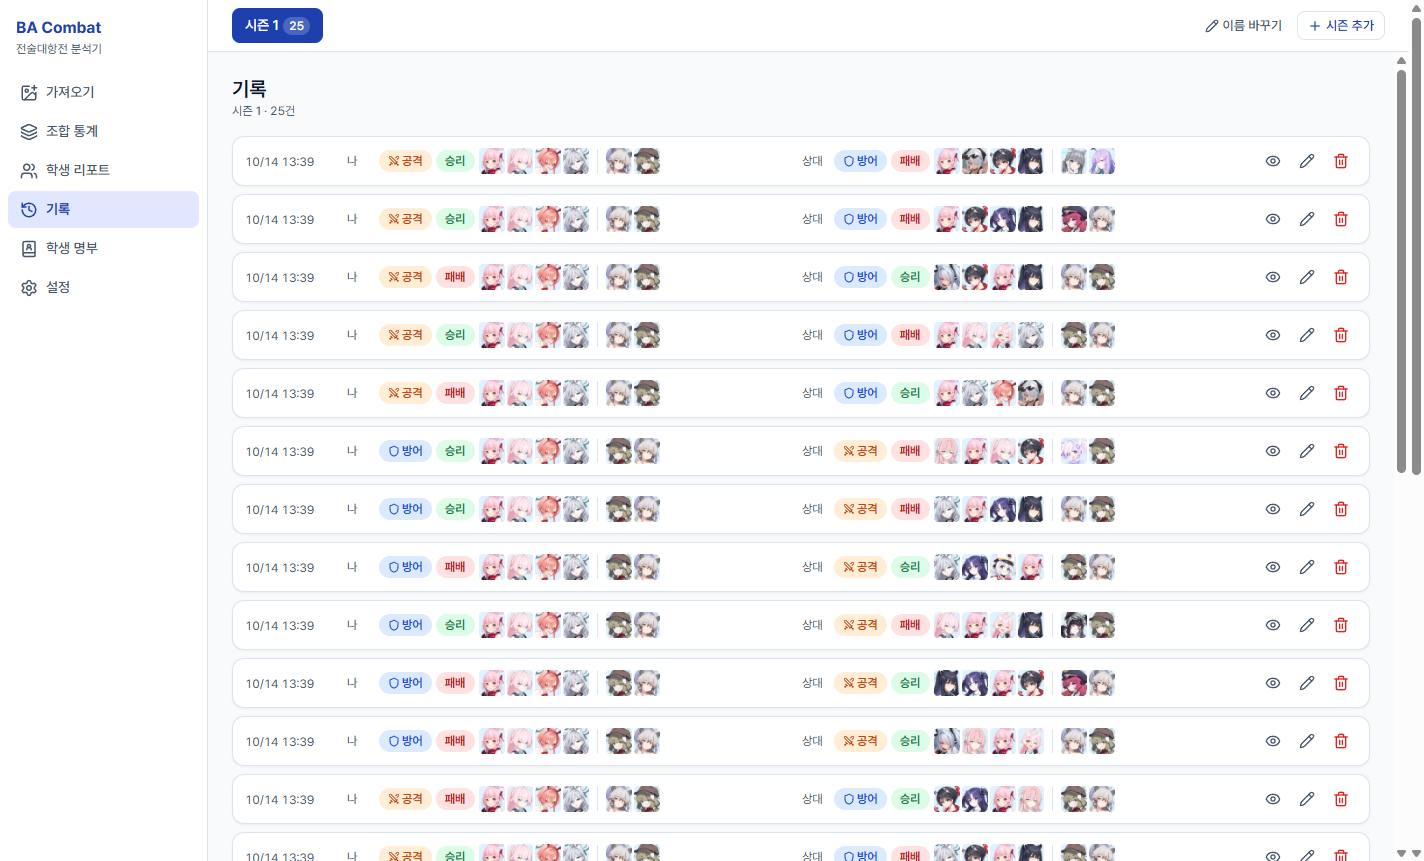
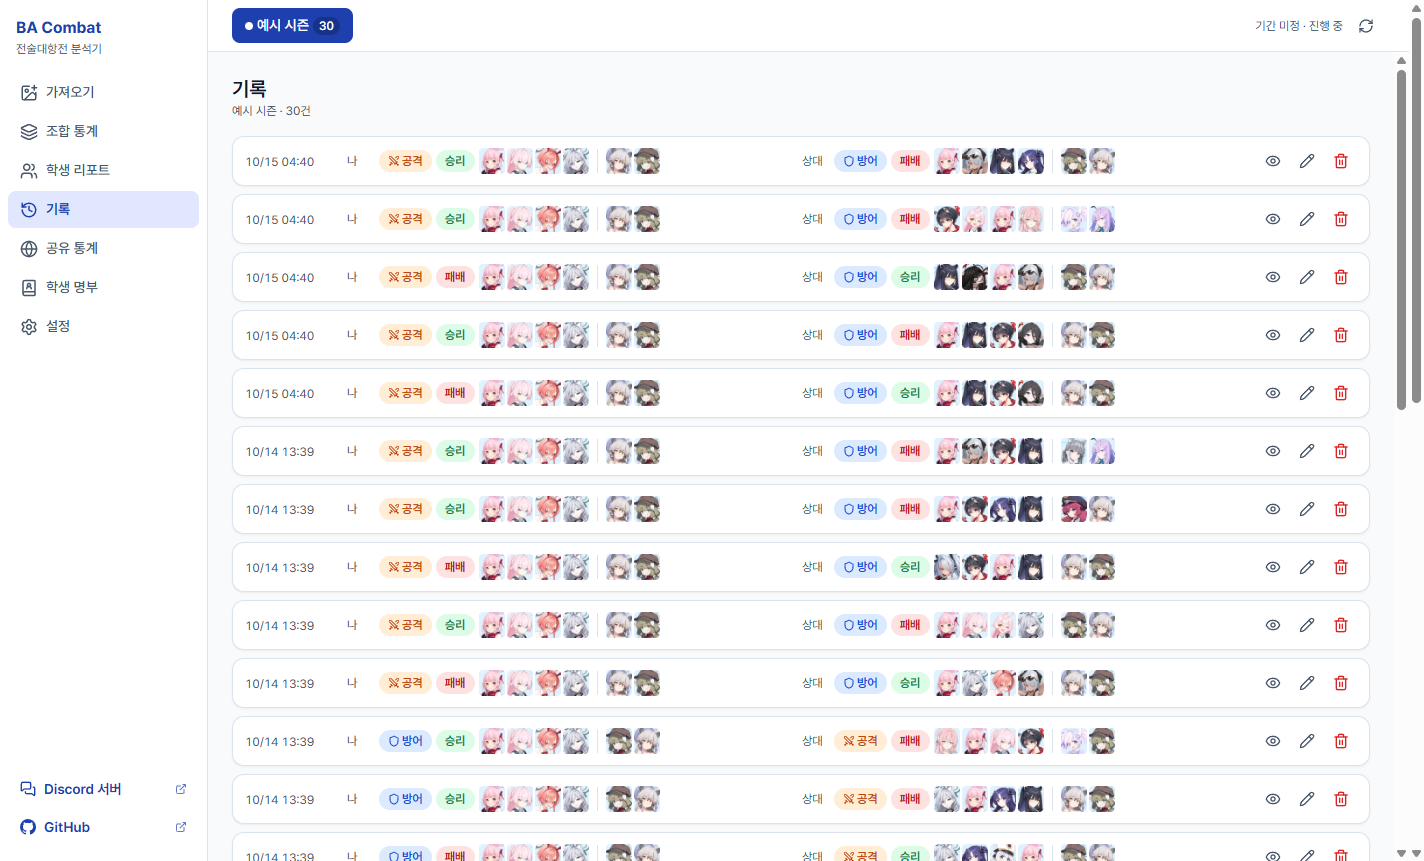
Describe all main features with new screenshots and a privacy section

diff --git a/README.md b/README.md
@@ -1,6 +1,6 @@
 # BA Combat
 
-블루 아카이브 **전술대항전**의 전투 리포트 스크린샷을 넣으면 승패와 양쪽 편성을 자동으로 읽어서, 시즌별로 **조합 승률(공격/방어/전체)** 과 **학생별 기록**을 정리해 주는 프로그램입니다. Windows 앱과 설치 없이 쓰는 웹 버전이 있습니다.
+블루 아카이브 **전술대항전**의 전투 리포트 스크린샷을 넣으면 승패와 양쪽 편성을 자동으로 읽어서, 시즌별로 **조합 승률(공격/방어/전체)** 과 **학생별 기록**을 정리해 주는 프로그램입니다. Windows 앱과 설치 없이 쓰는 웹 버전이 있고, 원하는 사람끼리 기록을 모아 보는 **공유 통계**도 있습니다.
 
 **[웹 버전 열기 (ba.nxyui.co.kr)](https://ba.nxyui.co.kr)** · [Windows 앱 내려받기](https://github.com/NXYUI/BA-Combat/releases) · [Discord 서버](https://discord.gg/rJHuEhgfuZ)
 
@@ -42,18 +42,55 @@
 
 ### 시즌별 통계
 
-- **시즌 탭**: 전술대항전 시즌마다 탭이 나뉘고, 통계는 탭마다 따로 냅니다. 시즌(이름·기간)은 운영자가 정해 두며, 앱은 처음 한 번 인터넷에서 목록을 받아 둔 뒤 오프라인에서도 씁니다. 오늘 날짜의 시즌이 자동으로 선택됩니다.
+- **시즌 탭**: 전술대항전 시즌마다 탭이 나뉘고, 통계는 탭마다 따로 냅니다. 시즌(이름·기간)은 운영자가 정해 두며, 앱은 처음 한 번 인터넷에서 목록을 받아 둔 뒤 오프라인에서도 씁니다. 오늘 날짜의 시즌(일정이 정해지기 전이면 "기간 미정" 시즌)이 자동으로 선택됩니다.
 - **이전 기록**: 예전 버전에서 직접 만든 시즌의 기록은 "이전 기록"으로 보이며, 공식 시즌으로 한 번에 옮길 수 있습니다. 시즌 목록을 받기 전에 저장한 기록은 "임시 기록"에 모였다가 같은 방법으로 옮깁니다.
 - **조합 통계**
   - STRIKER 4명은 배치 순서까지, SPECIAL 2명은 순서와 상관없이 같은 조합으로 묶어서 공격·방어·전체 승률과 판수를 보여 줍니다.
   - 한 전투에서 내 조합과 상대 조합이 각각 한 건씩 기록되므로, 상대가 쓴 조합의 승률도 쌓입니다.
   - 판수가 적은 조합은 "표본 부족"으로 표시하고, 숨길 수도 있습니다.
-- **학생 리포트**: 학생별 등장 횟수, 공격/방어 승률, 평균 딜량, 주로 배치된 위치, 함께 많이 쓴 학생을 보여 줍니다.
 - **기록**: 저장한 전투를 다시 보고, 고치고, 다른 시즌으로 옮기거나 지울 수 있습니다.
+
+![기록 화면](docs/images/battles.png)
+
+### 학생 리포트
 
 ![학생 리포트 화면](docs/images/students.png)
 
-![기록 화면](docs/images/battles.png)
+- 학생별 등장 횟수, 공격/방어 승률, 평균 딜량, 주로 배치된 위치를 보여 줍니다.
+- 학생을 누르면 세부 지표가 나옵니다.
+  - **배치 순서**: STRIKER 1~4, SPECIAL 1·2 중 어디에 얼마나 섰고, 자리마다 승률이 어땠는지
+  - **함께 나온 학생**: 같은 편으로 나온 횟수와 그때의 승률, 그 학생이 주로 선 자리
+  - **들어간 편성**: 이 학생이 들어간 조합과 승률
+  - **내 편으로 썼을 때 / 상대로 만났을 때**: 내 입장에서 본 승률
+- "공유 통계" 보기로 바꾸면 여러 사람이 공유한 기록으로 본 학생별 등장률·승률·배치 순서를 볼 수 있습니다([공유 통계](#공유-통계-웹-버전-선택)).
+
+### 학생 프로필과 명부
+
+![학생 프로필](docs/images/profile.png)
+
+- 학생을 누르면 프로필이 열립니다: 공격 타입, 방어 타입, 무기(예: 저격소총 SR), 사거리, 엄폐 가능 여부, 포지션, 역할, 학교, 지형 적성(시가지·야외·실내).
+- **스킬**: EX(코스트 포함)·기본·강화·서브 스킬을 최고 레벨 수치로 보여 주고, 애용품·고유무기로 강화된 효과도 펼쳐 볼 수 있습니다.
+- **학생 명부**에는 공격·방어 타입과 무기가 함께 나옵니다. 학생마다 별칭을 붙여 검색할 수 있습니다.
+- **기본 별칭**: 운영자가 학생마다 자주 쓰는 별칭을 기본으로 정해 둡니다(점선 칩과 "기본" 표시). 고치면 그 목록이 내 별칭이 되고, "기본값으로"로 되돌릴 수 있습니다. 기본 별칭은 검색에만 쓰고 스크린샷 인식에는 쓰지 않습니다.
+
+![학생 명부 화면](docs/images/roster.png)
+
+### 공유 통계 (웹 버전, 선택)
+
+![공유 통계 화면 (예시 데이터)](docs/images/shared-stats.png)
+
+![학생 리포트의 공유 통계 보기 (예시 데이터)](docs/images/shared-students.png)
+
+*위 두 화면은 기록을 여러 사람이 나눠 올린 것처럼 만든 예시 데이터입니다.*
+
+- 웹 버전에서 Discord로 로그인한 사람이 **시즌마다 직접 켜면**, 그 시즌 기록이 여러 사람의 기록과 합쳐집니다. 켜지 않으면 들어가지 않습니다.
+- 합친 결과는 로그인하지 않아도, 데스크톱 앱에서도 볼 수 있습니다: 역할(공격/방어)별 조합 승률, 학생별 등장률·승률·배치 순서.
+- 조작과 쏠림을 막는 규칙
+  - 같은 스크린샷은 한 번만, 같은 경기를 양쪽이 각자 올린 것도 한 번만 셉니다(딜량을 모두 읽은 경우).
+  - 한 사람이 같은 조합이나 학생을 많이 올려도 20판까지만 반영하고, 한 사람의 시즌 전체 반영량에도 상한이 있습니다.
+  - 한 편성에 같은 학생이 둘 들어간 것처럼 있을 수 없는 기록은 뺍니다.
+  - **서로 다른 3명 이상**이 기록한 조합·학생만 보여 줍니다.
+- 집계는 10분마다 바뀐 시즌만 다시 합니다. 공개되는 내용과 제한은 아래 [개인정보 보호](#개인정보-보호)에 정리했습니다.
 
 ### 다크 모드와 색상 톤
 
@@ -69,11 +106,9 @@
 
 ### 그 밖에
 
-- **학생 명부**: [SchaleDB](https://schaledb.com)의 학생 데이터를 씁니다. 새 학생이 나오면 동기화 버튼만 누르면 됩니다. 학생마다 별칭을 붙여 검색할 수 있습니다. ([학생 데이터를 받는 곳](#학생-데이터를-받는-곳))
 - **중복 방지**: 이미 넣은 파일이나 같은 전투(역할·승패·학생·딜량이 모두 같음)를 다시 넣으면 알려 줍니다. 같은 전투를 다른 해상도로 다시 찍은 경우도 찾아냅니다.
 - **데이터 이중 저장**: 모든 기록을 실행 파일 옆과 `%APPDATA%` 두 곳에 함께 저장합니다. 한쪽이 지워지거나 손상돼도 다른 쪽에서 복구합니다.
 - **백업 파일**: 설정에서 기록·명부·별칭·기준 이미지·설정을 ZIP 파일 하나로 내보내고 되살릴 수 있습니다. 다른 PC로 옮기거나 웹 버전과 데이터를 주고받을 때도 씁니다. 손상되거나 고쳐진 백업 파일은 아무것도 바꾸지 않고 거절합니다.
-- **내 PC에서만 처리**: 스크린샷 인식은 전부 PC(웹 버전은 브라우저) 안에서 처리하며, 외부 AI 서비스나 서버로 이미지를 보내지 않습니다.
 
 ## 웹 버전
 
@@ -81,13 +116,44 @@
 
 - 기능은 데스크톱 앱과 같습니다. 스크린샷 인식과 이름 글자 인식(OCR)도 브라우저 안에서 처리합니다.
 - 로그인하지 않으면 기록은 **그 브라우저 안에만** 저장되고 서버로 보내지 않습니다. 브라우저의 사이트 데이터를 지우거나 다른 브라우저·기기에서 열면 보이지 않으니, 설정의 **백업 파일 만들기**로 가끔 백업해 두세요.
-- **Discord로 로그인**(선택)하면 기록이 서버에도 저장돼, 브라우저를 초기화하거나 다른 기기에서 열어도 로그인하면 이어서 쓸 수 있습니다.
-  - 서버에 올리는 것: 시즌, 전투 기록(학생·딜량·공격/방어·승패), 별칭, 설정, Discord 사용자 ID와 이름
-  - 올리지 않는 것: 스크린샷과 이미지, 이메일, 게임 닉네임
-  - 설정에서 언제든 서버 데이터를 내려받거나 계정을 삭제할 수 있습니다. 자세한 내용은 사이트의 개인정보 안내를 참고하세요.
-- 기록이 엇갈리지 않도록 한 번에 한 탭에서만 열 수 있습니다.
+- **Discord로 로그인**(선택)하면 기록이 서버에도 저장돼, 브라우저를 초기화하거나 다른 기기에서 열어도 로그인하면 이어서 쓸 수 있습니다. 같은 기록을 두 기기에서 고치면 나중에 동기화한 쪽이 남고, 지운 기록은 고친 기록보다 우선합니다.
+- 서버에 저장한 기록을 다시 받을 때 **합치기**(이 기기 기록도 남김)와 **덮어쓰기**(서버 기록으로 바꿈) 중에서 고를 수 있습니다.
+- 기록이 엇갈리지 않도록 한 번에 한 탭에서만 열 수 있습니다. 새 버전이 배포되면, 그 전에 열어 둔 탭은 동기화할 때 새로고침하라고 안내합니다.
 - 최신 Chrome·Edge·Firefox·Safari에서 쓸 수 있습니다. 사생활 보호(시크릿) 창에서는 저장소가 막히거나 창을 닫을 때 지워질 수 있습니다.
 - 데스크톱 앱과 웹 버전 사이에 기록을 옮기려면 한쪽에서 백업 파일을 만들어 다른 쪽에서 복원하면 됩니다.
+
+## 개인정보 보호
+
+개인정보에 민감한 분도 안심하고 쓸 수 있도록 다음을 제한했습니다.
+
+### 기기 밖으로 보내지 않는 것
+
+- **스크린샷과 이미지는 어디로도 보내지 않습니다.** 인식(이미지 처리·글자 인식)은 전부 PC나 브라우저 안에서 하며, 외부 AI·LLM 서비스를 쓰지 않습니다. 로그인해 동기화해도 이미지는 각 기기에만 남습니다.
+- **게임 닉네임은 글자로 읽지 않습니다.** 전투 기록(텍스트)에도, 서버에도 들어가지 않습니다. 다만 이 기기에 저장되는 리포트 이미지에는 원본 그대로 보입니다.
+- **데스크톱 앱에는 계정 기능이 없습니다.** 기록은 PC 안에만 저장됩니다.
+- 앱이 인터넷에서 **받기만** 하는 것: 학생 목록·스킬(이 리포의 `data` 브랜치 또는 SchaleDB), 학생 아이콘(SchaleDB), 공식 시즌 목록·기본 별칭·공유 통계(웹 버전 사이트). 이때 내 기록이나 식별 정보를 함께 보내지 않습니다.
+
+### 로그인(웹 버전, 선택)했을 때
+
+- Discord 로그인은 **사용자 ID와 표시 이름만** 받는 최소 권한(`identify`)을 씁니다. 이메일, 참여 중인 서버 목록, 친구 목록은 받지 않고, Discord 접근 토큰도 저장하지 않습니다.
+- 서버에 올리는 것: 시즌, 전투 기록(학생·딜량·공격/방어·승패, 스크린샷 파일의 해시값), 별칭, 화면·인식 설정, Discord 사용자 ID와 이름
+- 올리지 않는 것: 스크린샷과 이미지, 게임 닉네임, 이메일, 위치 정보
+- 서버 기록은 그 계정만 볼 수 있습니다. 다른 사람의 기록을 보는 기능은 앱에도, 관리 화면에도 없습니다. (서버 데이터베이스를 관리하는 운영자는 기술적으로 저장된 기록에 접근할 수 있습니다.)
+- 설정에서 언제든 **서버 데이터 파일로 받기**로 내 서버 기록을 내려받을 수 있고, **계정 삭제**를 누르면 서버의 계정과 기록이 바로 지워집니다. 브라우저에 있는 기록은 남습니다.
+- 쿠키는 로그인을 유지하는 것 하나(30일)와 로그인 도중 잠깐 쓰는 것 하나(10분)뿐입니다. 광고·분석 도구나 다른 회사의 추적 스크립트는 쓰지 않고, 사이트의 보안 정책(CSP)으로 외부 스크립트가 실행되지 않게 막아 두었습니다.
+
+### 공유 통계에서
+
+- **시즌마다 직접 켜야만** 그 시즌 기록이 들어갑니다. 기본은 꺼져 있습니다.
+- 공개되는 것은 여러 사람의 기록을 **합친 숫자뿐**입니다: 조합·학생별 판수, 승률, 등장률, 배치 순서 분포, 그것을 기록한 사람 수.
+- 공개하지 않는 것: 누가 올렸는지, Discord 이름, 개별 전투 기록, 딜량, 스크린샷
+- 서로 다른 3명 이상이 기록한 조합·학생만 보여 주고, 공유한 사람이 3명보다 적으면 전투 수 같은 합계도 숨깁니다. 참여자를 알아도 한 사람의 활동량을 짐작할 수 없게 하려는 것입니다.
+- 공유를 끄거나 계정을 지우면 다음 집계(보통 15분 안)에서 빠집니다.
+
+### 공개 자료에서
+
+- README의 예시 화면에서 플레이어 닉네임은 게임의 익명 표기처럼 "익명"으로 바꿔 두었습니다.
+- 버그를 제보할 때 스크린샷을 올린다면 상대 플레이어의 닉네임을 가려 주세요.
 
 ## 사용 방법
 
@@ -134,18 +200,23 @@ Get-FileHash .\BA-Combat-<버전>-portable.exe -Algorithm SHA256
 
 | 파일·폴더 | 내용 |
 |---|---|
-| `data.json` | 시즌과 전투 기록 |
-| `roster.json` | 학생 명부, 별칭 |
+| `data.json` | 전투 기록과 이전 기록(예전에 직접 만든 시즌) |
+| `roster.json` | 학생 명부(속성 포함), 내 별칭 |
+| `settings.json` | 화면·인식 설정 |
+| `official-seasons.json` | 받아 둔 공식 시즌 목록 |
+| `alias-presets.json` | 받아 둔 기본 별칭 (백업에는 넣지 않음) |
+| `student-skills.json` | 받아 둔 학생 스킬 (백업에는 넣지 않음) |
 | `battles/` | 저장한 전투 리포트 이미지 |
 | `icons/` | SchaleDB에서 받은 학생 아이콘 |
 | `refs/` | 직접 확인한 초상화 (기준 이미지) |
 
 ## 학생 데이터를 받는 곳
 
-- **학생 목록**: 이 리포의 [`data` 브랜치](https://github.com/NXYUI/BA-Combat/tree/data)에서 받습니다. GitHub Actions가 매일 SchaleDB의 학생 데이터를 받아, 앱이 쓰는 필드(이름, STRIKER/SPECIAL, 출시 여부 등)만 남겨 올려 둡니다. 이 브랜치를 받을 수 없을 때만 SchaleDB에서 직접 받습니다.
+- **학생 목록·스킬**: 이 리포의 [`data` 브랜치](https://github.com/NXYUI/BA-Combat/tree/data)에서 받습니다. GitHub Actions가 매일 SchaleDB의 한국어 학생 데이터를 받아, 앱이 쓰는 필드(이름, STRIKER/SPECIAL, 출시 여부, 공격·방어 타입·무기 같은 프로필 속성, 스킬)만 남겨 올려 둡니다. 이 브랜치를 받을 수 없을 때만 SchaleDB에서 직접 받습니다.
   - 사용자가 늘어도 SchaleDB 서버에 직접 가는 요청이 늘지 않게 하고, SchaleDB의 데이터 형식이 바뀌어도 앱이 깨지기 전에 이 작업에서 걸러지게 하려는 구성입니다.
+  - 스킬은 크기가 커서 학생 프로필을 처음 열 때 받습니다.
 - **학생 아이콘**: 사용자마다 처음 한 번만 SchaleDB에서 받아 `BA-DATA/icons`(웹 버전은 브라우저 저장소)에 보관합니다. 게임 그림이므로 이 리포에는 올리지 않습니다.
-- 받은 데이터는 크기와 시간에 상한을 두고 모양을 검사한 뒤에만 씁니다.
+- 받은 데이터는 크기와 시간에 상한을 두고 모양을 검사한 뒤에만 씁니다. 화면에는 글자로만 보여 주고 HTML로 해석하지 않습니다.
 
 ## 인식 방식
 
@@ -153,7 +224,7 @@ Get-FileHash .\BA-Combat-<버전>-portable.exe -Algorithm SHA256
 
 1. **패널 찾기**: 팝업이 뜨면 게임이 배경을 어둡게 깔기 때문에, 밝은 리포트 패널을 찾아 기준 크기로 맞춥니다. 리포트 화면은 해상도와 관계없이 모양이 같고 크기만 바뀌어서, 한 번 맞추면 나머지는 같은 위치에서 읽을 수 있습니다.
 2. **공격/방어·승패**: 칼·방패 아이콘의 모양과 Win 글자의 금색을 봅니다.
-3. **학생**: 초상화를 SchaleDB 아이콘과 모양·색으로 비교합니다. 점수가 애매하면 초상화 아래 이름 글자를 읽어(OCR) 한 번 더 확인하고, 그래도 확실하지 않으면 사용자에게 묻습니다.
+3. **학생**: 초상화를 SchaleDB 아이콘과 모양·색으로 비교합니다. 점수가 애매하면 초상화 아래 이름 글자를 읽어(OCR) 공식 이름과 내가 붙인 별칭으로 한 번 더 확인하고, 그래도 확실하지 않으면 사용자에게 묻습니다.
 4. **딜량**: 막대 위 숫자를 게임 글꼴의 숫자 모양과 비교해 읽습니다.
 
 ## 요구 사항과 한계
@@ -161,7 +232,7 @@ Get-FileHash .\BA-Combat-<버전>-portable.exe -Algorithm SHA256
 - 데스크톱 앱: Windows 10/11 64비트 / 웹 버전: 최신 브라우저
 - 한국어 클라이언트(글로벌 서버) 화면으로 만들고 확인했습니다. 일본 서버 학생 목록은 설정에서 고를 수 있지만 일본어 클라이언트 화면은 확인하지 않았습니다.
 - 모바일 캡처와 16:9가 아닌 모니터(21:9 등)의 전체 화면 캡처는 아직 확인하지 않았습니다.
-- 학생 명부를 동기화하려면 인터넷 연결이 필요합니다. 이름 글자 인식용 한국어 데이터는 앱(웹 버전은 사이트)에 함께 들어 있습니다.
+- 학생 명부·공식 시즌 목록을 받으려면 인터넷 연결이 필요합니다(한 번 받으면 오프라인에서도 씁니다). 이름 글자 인식용 한국어 데이터는 앱(웹 버전은 사이트)에 함께 들어 있습니다.
 - 게임 업데이트로 리포트 화면 구성이 바뀌면 인식이 멈출 수 있습니다. 이때는 "화면 구성이 바뀌었을 수 있다"고 안내합니다.
 
 ## 커뮤니티와 문의
@@ -172,8 +243,8 @@ Get-FileHash .\BA-Combat-<버전>-portable.exe -Algorithm SHA256
 ## 고지
 
 - 이 프로그램은 팬이 만든 비공식 도구이며 NEXON Games, Yostar와 관계가 없습니다. Blue Archive와 관련 이미지의 권리는 각 권리자에게 있습니다.
-- 학생 데이터의 출처는 [SchaleDB](https://schaledb.com)입니다. 학생 목록은 이 리포의 `data` 브랜치를 거쳐, 아이콘은 SchaleDB에서 실행 중에 받으며 프로그램에 포함하지 않습니다.
-- README의 예시 화면에서 플레이어 닉네임은 게임의 익명 표기처럼 "익명"으로 바꿔 두었습니다.
+- 학생 데이터의 출처는 [SchaleDB](https://schaledb.com)입니다. 학생 목록·스킬은 이 리포의 `data` 브랜치를 거쳐, 아이콘은 SchaleDB에서 실행 중에 받으며 프로그램에 포함하지 않습니다.
+- README의 예시 화면에서 플레이어 닉네임은 게임의 익명 표기처럼 "익명"으로 바꿔 두었습니다. 공유 통계 화면은 예시 데이터입니다.
 - 사용한 오픈소스: [Pretendard](https://github.com/orioncactus/pretendard) (SIL OFL 1.1), [Tesseract.js](https://github.com/naptha/tesseract.js) (Apache-2.0), Electron, React
 
 ## 라이선스
